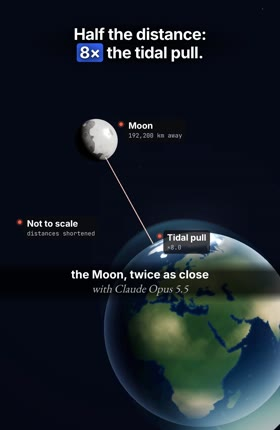
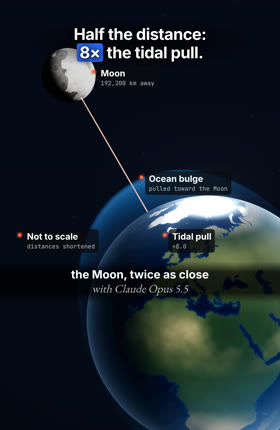
space38 (#34), earth41 (#35), neon40 tutorial: director-reviewed, published + released; earth39 dropped (tsunami failed review 2x); series next=36

Changed region(s): [[0.0571, 0.0907, 1.0, 1.0], [0.5429, 0.8465, 0.5714, 0.8767]]

diff --git a/hf/videos/earth41/scenes.js b/hf/videos/earth41/scenes.js
@@ -111,7 +111,7 @@ const EARTH_VS='varying vec2 vU; varying vec3 vN; varying vec3 vW; void main(){ 
 function llVec(lat,lon,r){ const u=(lon+180)/360, v=(lat+90)/180, ph=u*Math.PI*2, th=(1-v)*Math.PI; return new THREE.Vector3(-r*Math.cos(ph)*Math.sin(th),r*Math.cos(th),r*Math.sin(ph)*Math.sin(th)); }
 const nf39=new Intl.NumberFormat('en-US');
 
-// ================= earth39 scenes (Claude Opus 5.5, drawn in code) =================
+// ================= earth41 scenes (Claude Opus 5.5, drawn in code) =================
 // ---------- S0 /simulate the Moon twice as close: real Earth, a procedural Moon that drifts in from today's distance to half of it
 // (not to scale: distances shortened, sizes true ratio). Tide-generating force ~ 1/d^3 (NOAA), so half the distance = 8x the pull: the
 // ocean tidal bulge (exaggerated ellipsoid shell) swells toward the Moon and on the far side; odometers run 384,400 -> 192,200 km and x1 -> x8.
@@ -119,7 +119,7 @@ function moonTex(){ return canvasTex(1024,512,(c,w,h)=>{ const n=vnoise(5), n2=v
   for(let y=0;y<h;y++) for(let x=0;x<w;x++){ const u=x/w*10, v=y/h*5; let e=fbm(n,u,v,6); const mare=fbm(n2,u*0.5+3,v*0.5,4)>0.56?0.55:1; let g=(95+120*e)*mare; const i=(y*w+x)*4; im.data[i]=g; im.data[i+1]=g*0.98; im.data[i+2]=g*0.95; im.data[i+3]=255; }
   c.putImageData(im,0,0); const r=rnd(12); for(let i=0;i<520;i++){ const x=r()*w,y=r()*h,rr=1.5+Math.pow(r(),3)*22; let g=c.createRadialGradient(x+rr*0.2,y+rr*0.2,0,x,y,rr); g.addColorStop(0,'rgba(20,20,20,.22)'); g.addColorStop(0.75,'rgba(20,20,20,.08)'); g.addColorStop(0.92,'rgba(255,255,255,.10)'); g.addColorStop(1,'rgba(255,255,255,0)'); c.fillStyle=g; c.beginPath(); c.arc(x,y,rr,0,7); c.fill(); } }); }
 (function(){ const ren=mkRenderer2('cv0'), sc=new THREE.Scene(); sc.background=new THREE.Color(0x020306); ren.toneMappingExposure=1.0;
-  const cam=new THREE.PerspectiveCamera(42,1080/1920,0.05,500); const P=mkComposer(ren,sc,cam,{bloom:0.55,radius:0.5,th:0.8});
+  const cam=new THREE.PerspectiveCamera(46,1080/1920,0.05,500); const P=mkComposer(ren,sc,cam,{bloom:0.45,radius:0.5,th:0.85});
   starField(sc,1800,31,300);
   const SUN=new THREE.Vector3(1,0.35,0.6).normalize();
   const E=earthReal(); const U={uDay:{value:E.day},uCl:{value:E.clouds},uNi:{value:E.night},uT:{value:0},uSun:{value:SUN}};
@@ -139,99 +139,68 @@ function moonTex(){ return canvasTex(1024,512,(c,w,h)=>{ const n=vnoise(5), n2=v
         float n=fbm(vL.xz*9.+vec2(uT*0.3,0.))*0.5+fbm(vL.yx*14.-uT*0.2)*0.5;
         vec3 col=mix(vec3(0.05,0.32,0.62),vec3(0.35,0.75,1.0),lift)*(0.25+0.9*k)+vec3(0.8,0.95,1.)*pow(max(dot(reflect(-uSun,N),V),0.),40.)*k*0.8;
         col+=vec3(0.6,0.9,1.)*smoothstep(0.62,0.7,n)*lift*0.25;
-        float a=(0.03+0.95*lift*lift)*uK*(0.6+0.4*fr)*smoothstep(0.0,0.18,dot(N,V)); col+=vec3(0.4,0.8,1.)*lift*lift*0.6; gl_FragColor=vec4(col,a); }`}));
+        float a=clamp((0.02+1.6*pow(lift,1.5))*uK*smoothstep(0.0,0.12,dot(N,V)),0.,0.93); col=vec3(0.03,0.20,0.52)*(0.45+0.8*k)+vec3(0.9,0.97,1.)*pow(max(dot(reflect(-uSun,N),V),0.),30.)*k*0.5+vec3(0.15,0.45,0.9)*fr*0.35; gl_FragColor=vec4(col,a); }`}));
   sc.add(bulge);
   const moon=new THREE.Mesh(new THREE.SphereGeometry(0.273,96,64),new THREE.MeshStandardMaterial({map:moonTex(),roughness:0.95,metalness:0}));
   sc.add(moon); const dl=new THREE.DirectionalLight(0xffffff,2.6); dl.position.copy(SUN).multiplyScalar(10); sc.add(dl); sc.add(new THREE.AmbientLight(0x223040,0.25));
-  const MD=new THREE.Vector3(-0.5,0.8,-0.35).normalize();
+  const MD=new THREE.Vector3(-0.62,0.66,-0.35).normalize();
   // pull line Earth -> Moon
   const pull=new THREE.Mesh(new THREE.CylinderGeometry(0.006,0.006,1,8),glowMat(0xff6a3d,0.9)); sc.add(pull);
   const W0=new THREE.Vector3();
   SCN[0]=function(lt){ U.uT.value=lt; BU.uT.value=lt;
     const a=easeIO(cl((lt-0.35)/3.4)); const d=lerp(5.6,2.8,a); moon.position.copy(MD).multiplyScalar(d); moon.rotation.y=0.6+lt*0.05;
     const pullK=Math.pow(5.6/d,3); // 1 -> 8
-    const b=0.03*pullK; bulge.quaternion.setFromUnitVectors(new THREE.Vector3(0,1,0),MD); bulge.scale.set(1,1+b,1); BU.uK.value=cl(lt/0.5);
+    const b=0.045*pullK; bulge.quaternion.setFromUnitVectors(new THREE.Vector3(0,1,0),MD); bulge.scale.set(1,1+b,1); BU.uK.value=cl(lt/0.5);
     pull.position.copy(MD).multiplyScalar((1.08+d-0.3)/2); pull.scale.y=d-0.3-1.08; pull.quaternion.setFromUnitVectors(new THREE.Vector3(0,1,0),MD); pull.material.opacity=0.25+0.1*pullK*win(lt,0.3,9);
     earth.rotation.y=-2.2+lt*0.06;
-    const u=easeIO(cl(lt/5.6)); cam.position.set(lerp(1.0,0.7,u),lerp(0.5,0.7,u),lerp(6.2,7.0,u)); cam.lookAt(lerp(-0.6,-0.7,u),lerp(1.5,1.35,u),-0.3);
+    const u=easeIO(cl(lt/5.6)); cam.position.set(lerp(0.2,-0.1,u),lerp(1.0,0.95,u),lerp(4.5,4.9,u)); cam.lookAt(lerp(-0.55,-0.6,u),lerp(0.9,0.95,u),-0.3);
     P.c.render();
     let [x,y]=proj(moon.position,cam); setLab('l0_0',x+110,y-40,win(lt,0.3,9),'Moon',nf39.format(Math.round(384400/(5.6/d)/100)*100)+' km away');
-    W0.copy(MD).multiplyScalar(1.0+b+0.02); [x,y]=proj(W0,cam); setLab('l0_1',x+60,y+30,win(lt,0.9,9),'Tidal pull','×'+pullK.toFixed(1));
-    setLab('l0_2',90,1060,win(lt,1.6,9));
+    W0.copy(MD).multiplyScalar(1.0+b+0.02); [x,y]=proj(W0,cam); setLab('l0_3',x+50,y-10,win(lt,0.9,9));
+    setLab('l0_1',650,1110,win(lt,0.9,9),'Tidal pull','×'+pullK.toFixed(1));
+    setLab('l0_2',90,1110,win(lt,1.6,9));
     caption(0,lt); };
 })();
 
-// ---------- S1 /what-if a mega tsunami hit New York (v2): low camera on the waterfront at dusk, our own generic towers (setbacks, soft
-// window lights) on the left, a huge wave rolling in from the bay with a curling lip, foam and spray. Hypothetical: no height claimed.
-// Caption = the real record (Lituya Bay 1958, 525 m run-up, NOAA JetStream).
-(function(){ const ren=mkRenderer2('cv1'), sc=new THREE.Scene(); ren.toneMappingExposure=1.0;
-  sc.background=canvasTex(16,512,(c,w,h)=>{ const g=c.createLinearGradient(0,0,0,h); g.addColorStop(0,'#070b1c'); g.addColorStop(0.35,'#262a4c'); g.addColorStop(0.55,'#7a4a52'); g.addColorStop(0.63,'#e08a5a'); g.addColorStop(0.68,'#3a2c38'); g.addColorStop(1,'#0c1018'); c.fillStyle=g; c.fillRect(0,0,w,h); });
-  const cam=new THREE.PerspectiveCamera(46,1080/1920,0.1,400); const P=mkComposer(ren,sc,cam,{bloom:0.45,radius:0.5,th:0.88});
-  const WU={uT:{value:0},uF:{value:40},uH:{value:0}};
-  const WH=`uniform float uT,uF,uH; float wh(vec2 p){ float dz=p.y-uF; float s=0.07*sin(p.x*1.3+uT*1.6)+0.06*sin(p.x*0.7-p.y*1.1+uT*1.2)+0.05*sin(p.y*2.1+uT*2.0);
-    float hx=uH*(1.+0.12*sin(p.x*0.21+1.3)); float crest=hx*(dz<0.?exp(-dz*dz/2.2):exp(-dz*dz/40.)); float trough=-0.35*uH*exp(-pow((dz+5.5)/2.5,2.));
-    return s+crest+trough; }`;
-  const wg=new THREE.PlaneGeometry(120,90,360,300); wg.rotateX(-Math.PI/2); wg.translate(0,0,30);
-  const WFS=`varying vec3 vW; varying vec3 vNn; varying float vFo; varying float vSl; uniform float uT;
-    void main(){ vec3 N=normalize(vNn+vec3(fbm(vW.xz*1.5+vW.y*0.8+uT)-.5,0.,fbm(vW.zx*1.5-vW.y*0.8-uT)-.5)*0.07); vec3 V=normalize(cameraPosition-vW); float fr=0.03+0.97*pow(1.-max(dot(N,V),0.),5.);
-      vec3 R=reflect(-V,N); float sky=clamp(R.y,0.,1.); vec3 skyC=mix(vec3(0.9,0.52,0.36),vec3(0.16,0.17,0.32),smoothstep(0.,0.45,sky));
-      vec3 deep=vec3(0.012,0.04,0.055); vec3 col=mix(deep,skyC*0.6,fr);
-      col+=vec3(0.015,0.10,0.09)*vSl*max(dot(N,V),0.); // light through the thin wave face
-      vec3 S=normalize(vec3(0.,0.10,1.)); col+=vec3(1.,0.68,0.42)*pow(max(dot(R,S),0.),160.)*1.4;
-      float n=fbm(vec2(vW.x*1.4,vW.y*1.6+vW.z*1.2)+vec2(0.,-uT*1.5)); float foam=vFo*smoothstep(0.35,0.7,n+vFo*0.3); col=mix(col,vec3(0.72,0.72,0.74),clamp(foam,0.,0.92));
-      gl_FragColor=vec4(col,1.); }`;
-  const water=new THREE.Mesh(wg,new THREE.ShaderMaterial({uniforms:WU,toneMapped:false,
-    vertexShader:GLN+WH+`varying vec3 vW; varying vec3 vNn; varying float vFo; varying float vSl; void main(){ vec3 p=position; float h=wh(p.xz); float e=0.08; float dz=p.z-uF;
-      vec3 N=normalize(vec3(-(wh(p.xz+vec2(e,0.))-h)/e,1.,-(wh(p.xz+vec2(0.,e))-h)/e)); vNn=N; vSl=clamp(-N.z*1.5,0.,1.)*step(0.5,uH)*smoothstep(0.,0.6*uH,h);
-      vFo=smoothstep(0.75*uH,0.98*uH,h)*step(1.,uH)+0.3*smoothstep(1.,4.,dz)*smoothstep(12.,5.,dz)*step(1.,uH);
-      p.y=h; vec4 w=modelMatrix*vec4(p,1.); vW=w.xyz; gl_Position=projectionMatrix*viewMatrix*w; }`,fragmentShader:GLN+WFS}));
-  sc.add(water);
-  // curling lip: a sheet that leaves the crest top and curls forward/down toward the camera
-  const NX=220, NA=26; const lg=new THREE.PlaneGeometry(1,1,NX-1,NA-1); const LP=lg.attributes.position;
-  const LU={uT:{value:0},uF:{value:40},uH:{value:0},uC:{value:0}};
-  const lip=new THREE.Mesh(lg,new THREE.ShaderMaterial({uniforms:LU,side:THREE.DoubleSide,toneMapped:false,transparent:true,
-    vertexShader:'varying vec3 vW; varying vec3 vNn; varying float vFo; varying float vSl; varying float vA; attribute float aa; void main(){ vec4 w=modelMatrix*vec4(position,1.); vW=w.xyz; vNn=normalize(mat3(modelMatrix)*normal); vFo=smoothstep(0.55,1.,aa)*0.9+0.15; vSl=1.-aa; vA=aa; gl_Position=projectionMatrix*viewMatrix*w; }',
-    fragmentShader:GLN+WFS.replace('gl_FragColor=vec4(col,1.);','gl_FragColor=vec4(col,1.-smoothstep(0.93,1.,vA)*0.6);').replace('varying float vSl;','varying float vSl; varying float vA;')}));
-  const AA=new Float32Array(NX*NA); lg.setAttribute('aa',new THREE.BufferAttribute(AA,1)); lip.frustumCulled=false; sc.add(lip);
-  function updLip(lt){ const H=WU.uH.value, F=WU.uF.value, curl=LU.uC.value;
-    for(let j=0;j<NA;j++) for(let i=0;i<NX;i++){ const k=j*NX+i; const x=-60+120*i/(NX-1); const a=j/(NA-1); AA[k]=a;
-      const hx=H*(1+0.12*Math.sin(x*0.21+1.3)); const r=0.22*hx*(0.75+0.25*Math.sin(x*0.13+lt*0.8)); const ang=a*(0.3+2.3*curl);
-      const z=F-r*Math.sin(ang)*1.35, y=hx-r+r*Math.cos(ang)-0.05; LP.setXYZ(k,x,y,z); }
-    LP.needsUpdate=true; lg.computeVertexNormals(); }
-  // spray: soft particles thrown off the lip
-  const NS=1600, spr=cloudPoints(NS,softDot(),650,THREE.NormalBlending); sc.add(spr); const SR=rnd(9); const SD=[]; for(let i=0;i<NS;i++) SD.push([SR()*120-60,SR(),SR(),SR()]);
-  function updSpray(lt){ const H=WU.uH.value, F=WU.uF.value, g=spr.geometry; const pa=g.attributes.position, ca=g.attributes.color, sa=g.attributes.sz, al=g.attributes.al;
-    for(let i=0;i<NS;i++){ const [x,ph,v,s]=SD[i]; const life=((lt*0.55+ph)%1); const hx=H*(1+0.12*Math.sin(x*0.21+1.3));
-      pa.setXYZ(i,x+Math.sin(ph*40)*0.6,hx*0.98+life*(0.8+1.6*v)-life*life*1.4,F-0.6-life*(1.5+2.5*s)); ca.setXYZ(i,0.78,0.78,0.8); sa.setX(i,0.6+2.4*s*life+0.4); al.setX(i,0.13*Math.sin(Math.PI*life)*cl((H-1)/3)); }
-    pa.needsUpdate=ca.needsUpdate=sa.needsUpdate=al.needsUpdate=true; }
-  // towers with setbacks, soft window lights
-  const bg=new THREE.BoxGeometry(1,1,1); bg.translate(0,0.5,0);
-  const bm=new THREE.ShaderMaterial({toneMapped:false,
-    vertexShader:'varying vec3 vW; varying vec3 vN; varying float vS; void main(){ vec4 w=modelMatrix*instanceMatrix*vec4(position,1.); vW=w.xyz; vN=normalize(mat3(modelMatrix*instanceMatrix)*normal); vS=instanceMatrix[3].x*13.1+instanceMatrix[3].z*7.7; gl_Position=projectionMatrix*viewMatrix*w; }',
-    fragmentShader:GLN+`varying vec3 vW; varying vec3 vN; varying float vS; void main(){ vec3 N=normalize(vN); float fx=abs(N.x)>0.5?vW.z:vW.x;
-      vec2 g=vec2(fx*2.2,vW.y*1.9); vec2 id=floor(g), f=fract(g); float win=smoothstep(0.1,0.25,f.x)*smoothstep(0.9,0.75,f.x)*smoothstep(0.12,0.3,f.y)*smoothstep(0.85,0.68,f.y);
-      float side=step(0.5,1.-abs(N.y)); float r=h21(id+vec2(vS,vS*1.7)); float on=smoothstep(0.62,0.75,r)*win*side;
-      float band=smoothstep(0.02,0.0,abs(f.y-0.06))*0.25*side; float mull=step(0.5,fract(fx*0.5))*0.0;
-      vec3 base=vec3(0.010,0.012,0.018)+vec3(0.05,0.03,0.03)*max(N.z,0.)*0.5+vec3(0.012,0.014,0.025)*max(N.x,0.); base+=band*vec3(0.06,0.06,0.08);
-      vec3 wc=mix(vec3(1.,0.72,0.42),vec3(0.8,0.86,1.),h21(id+3.1))*(0.45+0.4*h21(id+7.))*1.0; vec3 col=base+wc*on*0.6+win*side*vec3(0.006,0.008,0.012);
-      col+=vec3(0.9,0.5,0.3)*pow(max(N.z,0.),2.)*0.06*smoothstep(0.,14.,vW.y); gl_FragColor=vec4(col,1.); }`});
-  const R=rnd(61); const PARTS=[]; let tallest=null;
-  for(let i=0;i<52;i++){ const x=0.5-Math.pow(R(),0.8)*16, z=3+R()*10; const w=1.4+R()*1.8, d=1.4+R()*1.8; let h=2+R()*5+Math.exp(-Math.pow((x+5)/4,2))*(6+R()*8);
-    let y=-0.3, ww=w, dd=d; const tiers=1+(h>7?2:h>4?1:0); for(let t=0;t<tiers;t++){ const th=t===tiers-1?h*(t?0.3:1):h*(t?0.25:0.6); PARTS.push([x,y,z,ww,th,dd]); y+=th; ww*=0.78; dd*=0.78; }
-    if(!tallest||y>tallest[1]) tallest=[x,y,z]; }
-  const city=new THREE.InstancedMesh(bg,bm,PARTS.length); const M=new THREE.Matrix4(); PARTS.forEach((p,i)=>{ M.compose(new THREE.Vector3(p[0],p[1],p[2]),new THREE.Quaternion(),new THREE.Vector3(p[3],p[4],p[5])); city.setMatrixAt(i,M); }); sc.add(city);
-  const ant=new THREE.Mesh(new THREE.CylinderGeometry(0.03,0.07,2.4,8),new THREE.MeshBasicMaterial({color:0x6a7080})); ant.position.set(tallest[0],tallest[1]+1.2,tallest[2]); sc.add(ant);
-  const red=new THREE.Mesh(new THREE.SphereGeometry(0.1,8,8),glowMat(0xff3020,1)); red.position.set(tallest[0],tallest[1]+2.45,tallest[2]); sc.add(red);
-  const quay=new THREE.Mesh(new THREE.BoxGeometry(44,0.5,13),new THREE.MeshBasicMaterial({color:0x0b0d13})); quay.position.set(-20.5,-0.05,8.5); sc.add(quay);
-  const pW=new THREE.Vector3();
-  SCN[1]=function(lt){ WU.uT.value=lt; LU.uT.value=lt; red.material.opacity=Math.sin(lt*5)>0?1:0.35;
-    const a=easeIO(cl(lt/5.6)); WU.uF.value=lerp(48,19,a); WU.uH.value=lerp(3,13,easeIO(cl(lt/3.4))); LU.uC.value=easeIO(cl((lt-0.6)/3.4)); LU.uF.value=WU.uF.value;
-    updLip(lt); updSpray(lt);
-    const u=easeIO(cl(lt/5.6)); cam.position.set(lerp(7,6,u),lerp(2.2,1.8,u),lerp(-17,-13,u)); cam.lookAt(lerp(0.5,1.5,u),lerp(6.5,7.5,u),25);
-    P.c.render();
-    pW.set(6,WU.uH.value*1.05,WU.uF.value); let [x,y]=proj(pW,cam); setLab('l1_0',x+30,y-30,win(lt,0.5,99));
-    [x,y]=proj(new THREE.Vector3(tallest[0],tallest[1],tallest[2]),cam); setLab('l1_1',Math.max(70,x-40),y+170,win(lt,1.2,99));
-    setLab('l1_2',90,1050,win(lt,2.0,99));
+// ---------- S1 /x-ray Earth down to its core: studio cutaway. Real Earth texture with one octant removed; the three cut faces show the
+// layers by radius (NASA "Facts About Earth"): crust ~30 km on land (drawn thicker to be visible), mantle ~2,900 km, liquid outer core
+// ~2,300 km (iron + nickel), solid inner core 1,221 km radius, up to ~5,400 °C. A scan ring sweeps from the surface to the centre.
+(function(){ const ren=mkRenderer2('cv1'), sc=new THREE.Scene(); ren.toneMappingExposure=1.0; bgGrad(sc,'#2a2f38','#07080b');
+  const cam=new THREE.PerspectiveCamera(34,1080/1920,0.05,200); const P=mkComposer(ren,sc,cam,{bloom:0.3,radius:0.5,th:0.92});
+  starField(sc,600,17,120);
+  const SUN=new THREE.Vector3(0.9,0.6,0.5).normalize();
+  const E=earthReal(); const U={uDay:{value:E.day},uCl:{value:E.clouds},uSun:{value:SUN},uO:{value:0}};
+  const earth=new THREE.Mesh(new THREE.SphereGeometry(1,200,150),new THREE.ShaderMaterial({uniforms:U,toneMapped:false,
+    vertexShader:'varying vec2 vU; varying vec3 vN; varying vec3 vW; varying vec3 vP; void main(){ vU=uv; vP=position; vN=normalize(mat3(modelMatrix)*normal); vec4 w=modelMatrix*vec4(position,1.); vW=w.xyz; gl_Position=projectionMatrix*viewMatrix*w; }',
+    fragmentShader:`uniform sampler2D uDay,uCl; uniform vec3 uSun; uniform float uO; varying vec2 vU; varying vec3 vN; varying vec3 vW; varying vec3 vP;
+      void main(){ if(vP.x>0.&&vP.y>0.&&vP.z>0.&&uO>0.5) discard; vec3 d=texture2D(uDay,vU).rgb; float c=texture2D(uCl,vU).r; vec3 N=normalize(vN);
+        float k=smoothstep(-0.25,0.6,dot(N,uSun)); vec3 col=mix(d,vec3(1.),c*0.6)*(0.10+1.0*k); col=1.-exp(-col*1.2);
+        vec3 V=normalize(cameraPosition-vW); col+=vec3(0.35,0.6,1.)*pow(1.-max(dot(N,V),0.),3.)*0.6; gl_FragColor=vec4(col,1.); }`}));
+  sc.add(earth);
+  const FU={uT:{value:0},uS:{value:1.2}};
+  const faceMat=new THREE.ShaderMaterial({uniforms:FU,side:THREE.DoubleSide,toneMapped:false,
+    vertexShader:'varying vec3 vP; void main(){ vP=(modelMatrix*vec4(position,1.)).xyz; gl_Position=projectionMatrix*viewMatrix*vec4(vP,1.); }',
+    fragmentShader:GLN+`uniform float uT,uS; varying vec3 vP;
+      void main(){ float r=length(vP); if(r>1.0) discard; vec2 q=vec2(atan(vP.y+vP.z*0.7,vP.x+vP.z*0.3)*3.,r*14.);
+        float n=fbm(q*1.5+vec2(0.,-uT*0.15)), n2=fbm(vec2(r*40.,atan(vP.y,vP.x+vP.z)*12.)+uT*0.05);
+        vec3 col;
+        if(r>0.975){ col=mix(vec3(0.30,0.26,0.22),vec3(0.46,0.40,0.33),n2); col=mix(col,vec3(0.16,0.32,0.18),smoothstep(0.994,1.0,r)*0.6); }
+        else if(r>0.55){ float t=(r-0.55)/0.425; col=mix(vec3(0.92,0.36,0.08),vec3(0.45,0.11,0.05),pow(t,0.8)); col*=0.72+0.5*n; // convecting mantle
+          col+=vec3(0.25,0.06,0.0)*smoothstep(0.6,0.75,fbm(q*0.8+uT*0.1)); }
+        else if(r>0.192){ float t=(r-0.192)/0.358; col=mix(vec3(1.0,0.74,0.22),vec3(0.98,0.55,0.12),t); col*=0.8+0.3*fbm(vec2(atan(vP.y,vP.x)*6.+uT*0.6,r*30.)); }
+        else { float t=r/0.192; col=mix(vec3(1.0,0.96,0.82),vec3(1.0,0.88,0.55),t)*(0.95+0.05*sin(uT*3.)); }
+        float b=min(min(abs(r-0.975),abs(r-0.55)),abs(r-0.192)); col*=0.55+0.45*smoothstep(0.0,0.007,b); // thin dark boundaries
+        float scan=exp(-pow((r-uS)/0.012,2.)); col+=vec3(0.55,0.85,1.)*scan*1.4;
+        gl_FragColor=vec4(col,1.); }`});
+  [[0,0,0],[0,-Math.PI/2,0],[Math.PI/2,0,0]].forEach((rot,i)=>{ const g=new THREE.PlaneGeometry(1,1,1,1); g.translate(0.5,0.5,0); const m=new THREE.Mesh(g,faceMat); m.rotation.set(...rot); m.visible=false; sc.add(m); FU['m'+i]=m; });
+  const pts=[[0.986,'l1_0'],[0.76,'l1_1'],[0.37,'l1_2'],[0.10,'l1_3']]; const A=Math.PI/4;
+  SCN[1]=function(lt){ FU.uT.value=lt; const open=lt>0.05; U.uO.value=open?1:0; FU.m0.visible=FU.m1.visible=FU.m2.visible=open;
+    const sp=easeIO(cl((lt-0.2)/3.4)); FU.uS.value=lerp(1.02,0.0,sp);
+    const u=easeIO(cl(lt/5.6)); const az=lerp(0.55,0.95,u), el=lerp(0.5,0.42,u), d=lerp(7.6,6.3,u);
+    cam.position.set(Math.sin(az)*Math.cos(el)*d,Math.sin(el)*d,Math.cos(az)*Math.cos(el)*d); cam.lookAt(0.08,lerp(0.05,0.15,u),0.08);
+    earth.rotation.y=0; P.c.render();
+    pts.forEach(([r,id],i)=>{ const v=new THREE.Vector3(Math.cos(A)*r*0.0+r*Math.cos(1.1)*0.0, r*Math.sin(A), r*Math.cos(A)); // on the x=0 face
+      const [x,y]=proj(v,cam); const shown=cl((1.02-FU.uS.value-(1-r)+0.04)/0.08); setLab(id,x+(i===3?90:18),y+(i===0?-75:i===1?10:i===2?70:150),shown*cl((lt-0.3)/0.3)); });
     caption(1,lt); };
 })();
 
@@ -275,6 +244,6 @@ function moonTex(){ return canvasTex(1024,512,(c,w,h)=>{ const n=vnoise(5), n2=v
     P.c.render();
     let [x,y]=proj(C,cam); setLab('l2_0',x+50,y-40,win(lt,0.3,9));
     W.copy(C).multiplyScalar(Math.cos(0.1727)).add(T1.clone().multiplyScalar(Math.sin(0.1727))).multiplyScalar(1.01); [x,y]=proj(W,cam); setLab('l2_1',x-20,y+70,win(lt,1.5,9));
-    W.copy(llVec(40,-4,1.0)); [x,y]=proj(W,cam); setLab('l2_2',x+14,y,win(lt,2.0,99));
+    W.copy(llVec(40,-4,1.0)); [x,y]=proj(W,cam); setLab('l2_2',Math.max(110,x+14),y,win(lt,2.0,99));
     caption(2,lt); };
 })();

diff --git a/hf/videos/earth41/build.py b/hf/videos/earth41/build.py
@@ -1,16 +1,17 @@
-"""earth39 - App demo "Type it, get it #35" (2026-11-15 morning run, picklist trio "What if... Earth 5"; Jan tapped nothing; /zack-d-films
-replaced by /simulate, Jan: give it a break). /simulate the Moon twice as close, /what-if a mega tsunami hit New York (generic dusk skyline
-of our own design), /scale the biggest typhoon versus Europe. All drawn in code (three.js + GLSL), made with Claude Opus 5.5.
+"""earth41 - App demo "Type it, get it #35" (2026-11-15 morning run, picklist trio "What if... Earth 5"; Jan tapped nothing). Replaces
+earth39 (its tsunami scene failed director review twice). /simulate the Moon twice as close, /x-ray Earth down to its core, /scale the
+biggest typhoon versus Europe. All drawn in code (three.js + GLSL), made with Claude Opus 5.5.
 Facts: tide-generating forces vary inversely as the cube of the distance (NOAA NOS tides tutorial) -> half the distance = 8x the pull;
-Lituya Bay 1958 run-up 1,720 ft / 525 m, highest tsunami ever recorded (NOAA JetStream); Typhoon Tip (Oct 1979) gale-force winds out to
-1,100 km radius (NOAA AOML TC FAQ E5) = ~2,200 km across. Prompt first, then the result. Music t1."""
+Earth's layers (NASA science.nasa.gov/earth/facts): crust ~30 km on land, mantle ~2,900 km, liquid iron-nickel outer core ~2,300 km,
+solid inner core 1,221 km radius, up to 5,400 C; Typhoon Tip (Oct 1979) gale-force winds out to 1,100 km radius (NOAA AOML TC FAQ E5).
+Prompt first, then the result. Music t1."""
 import json, shutil, subprocess, sys
 from pathlib import Path
 HERE = Path(__file__).parent
 sys.path.insert(0, str(HERE.parent.parent))
 from house import Film, series, FOLLOW_LINE
 
-W = HERE.parent.parent / "work" / "earth39"
+W = HERE.parent.parent / "work" / "earth41"
 A = W / "assets"
 for f in (HERE.parent / "impact22" / "media").iterdir():   # shared libs + Earth textures live in impact22/media
     if f.suffix == ".js": shutil.copy(f, A / f.name)
@@ -22,7 +23,7 @@ for k in range(3):
         Image.new("RGB", (280, 430), (34, 34, 34)).save(A / f"th{k}.jpg")
 
 # --- gaps after each "this." so the 3D result plays
-GAPS = {11: 3.9, 25: 3.9, 37: 4.1}
+GAPS = {11: 3.9, 23: 3.9, 35: 4.4}
 TEMPO = 1.18  # voice ~12 % faster (reviewer: aim for ~20 s)
 if not (A / "voice_raw.mp3").exists():
     shutil.copy(A / "voice.mp3", A / "voice_raw.mp3"); shutil.copy(A / "voice.json", A / "voice_raw.json")
@@ -59,20 +60,20 @@ for j, w in enumerate(vw):
     if j in GAPS: shift += GAPS[j]
 (A / "voice.json").write_text(json.dumps(vw))
 
-F = Film(W, (HERE / "script.txt").read_text(), A / "voice.json", tail=0.8)
+F = Film(W, (HERE / "script.txt").read_text(), A / "voice.json", tail=0.3)
 F.scenes([0])
 S, E = F.S, F.E
 
 DEMOS = [  # Type idx, (cmd i0,i1), (prompt i0,i1), 'and' idx, cmd, prompt, title, caption, hi, chip description
     (0, (2, 2), (3, 7), 8, "simulate", "the Moon twice as close", "the Moon, twice as close", "Half the distance: / 8× the tidal pull.", 3, "Simulate any what-if"),
-    (12, (14, 15), (16, 21), 22, "what-if", "a mega tsunami hit New York", "a mega tsunami hits the city", "Real record: 525&nbsp;m tsunami / run-up, Alaska 1958.", 2, "Play out any what-if"),
-    (26, (28, 28), (29, 33), 34, "scale", "the biggest typhoon versus Europe", "the biggest typhoon vs. Europe", "Typhoon Tip, 1979: / ≈2,200&nbsp;km across.", 3, "Compare anything to scale"),
+    (12, (14, 14), (15, 19), 20, "x-ray", "Earth down to its core", "Earth, x-rayed to its core", "Inner core: up to / 5,400&nbsp;°C.", 4, "See inside anything"),
+    (24, (26, 26), (27, 31), 32, "scale", "the biggest typhoon versus Europe", "the biggest typhoon vs. Europe", "Typhoon Tip, 1979: / ≈2,200&nbsp;km across.", 3, "Compare anything to scale"),
 ]
 CMD = DEMOS[0][4]
 TY = []
 for k, (a, (ci0, ci1), (pi0, pi1), andi, cmd, prompt, title, cap, hi, desc) in enumerate(DEMOS):
     T = 0.0 if k == 0 else round(S[a] - 0.15, 3)
-    nxt = round(S[DEMOS[k + 1][0]] - 0.15, 3) if k < 2 else round(S[38] - 0.15, 3)
+    nxt = round(S[DEMOS[k + 1][0]] - 0.15, 3) if k < 2 else round(S[36] - 0.15, 3)
     t_slash = 0.0 if k == 0 else T + 0.05          # no empty "Reply…" pause: the command is typed right away
     c0 = 0.0 if k == 0 else T + 0.12
     c1 = max(c0 + 0.35, S[pi0] - 0.1)                # command typing flows straight into the prompt (no stall)
@@ -108,8 +109,8 @@ keys_html += [f'<div class="k f" style="left:30px;top:{KY0 + 232}px;width:120px"
 KEYPOS[" "] = (460, y3)
 
 LABELS = [
-    [("Moon", "384,400 km away"), ("Tidal pull", "×1.0"), ("Not to scale", "distances shortened")],
-    [("The wave", "rising out of the bay"), ("Downtown", "our own generic skyline"), ("What if", "no real forecast")],
+    [("Moon", "384,400 km away"), ("Tidal pull", "×1.0"), ("Not to scale", "distances shortened"), ("Ocean bulge", "pulled toward the Moon")],
+    [("Crust", "≈30 km on land"), ("Mantle", "≈2,900 km of hot rock"), ("Outer core", "liquid iron + nickel"), ("Inner core", "solid, 1,221 km radius")],
     [("Typhoon Tip, 1979", "largest storm on record"), ("Gale-force winds", "1,100 km from the eye"), ("Europe", "same scale")],
 ]
 ui = ['<script src="assets/three.min.js"></script><script src="assets/three-extras.js"></script><script src="assets/studio_exr.js"></script><script src="assets/earth_tex.js"></script><div class="ui" id="ui">',
@@ -131,7 +132,7 @@ for k, (a, _c, _p, _a, cmd, prompt, title, cap, hi, desc) in enumerate(DEMOS):
                f'<div class="cap">{capw}</div>{labs}'
                f'<div class="ttl"><b>{title}</b><i>with Claude Opus 5.5</i></div></div>')
 thumbs = "".join(f'<div class="th" id="th{k}" style="left:{x}px"><img src="assets/th{k}.jpg" alt=""></div>' for k, x in enumerate([90, 400, 710]))
-end = ('<div id="end">' + SPARK + '<div class="c" id="e1">Comment</div><div class="kw" id="e2">“WAVE”</div>'
+end = ('<div id="end">' + SPARK + '<div class="c" id="e1">Comment</div><div class="kw" id="e2">“TIDE”</div>'
        '<div class="g" id="e3">and I\'ll send you the prompts</div>' + thumbs + '<div class="series" id="eser" style="left:0;right:0;margin:0 auto;width:fit-content;top:1400px">Type it, get it <b>#35</b></div>' + FOLLOW_LINE.replace('class="follow"', 'class="follow" id="efol" style="top:1490px;color:#fff"') + '</div>')
 F.body.append('<div class="layer" id="serl">' + series("Type it, get it", 35, x=70, y=116, dark=True) + '</div>')
 F.clip(0, "".join(ui) + stages + end)
@@ -196,7 +197,6 @@ html,body,#root{background:#121212!important}
 
 CSS += r"""
 #serl > *{background:rgba(17,17,17,.85)!important}
-#st1 .cap{background:rgba(4,6,14,.6);border-radius:28px;left:70px;right:70px}
 """
 CSS += r"""
 .cap{padding:26px 40px;margin:0 auto;background:radial-gradient(closest-side,rgba(0,0,0,.55),rgba(0,0,0,.35) 60%,rgba(0,0,0,0))}
@@ -280,7 +280,7 @@ F2('#st2',{opacity:1},{opacity:0,duration:.18,ease:'none'},END-0.12); tl.set('#u
 F2('#end',{opacity:0},{opacity:1,duration:.25,ease:'none'},END);
 F2('#end svg',{scale:0,rotation:-90},{scale:1,rotation:0,duration:.45,ease:'back.out(2)'},END+0.05);
 F2('#e1',{opacity:0,y:40},{opacity:1,y:0,duration:.35,ease:A},END+0.02);
-F2('#e2',{opacity:0,scale:1.5},{opacity:1,scale:1,duration:.4,ease:'back.out(1.8)'},Math.min(S[39]-0.1,END+0.1));
+F2('#e2',{opacity:0,scale:1.5},{opacity:1,scale:1,duration:.4,ease:'back.out(1.8)'},Math.min(S[37]-0.1,END+0.1));
 F2('#e3',{opacity:0,y:30},{opacity:1,y:0,duration:.35,ease:A},END+0.22);
 [0,1,2].forEach(k=>F2('#th'+k,{opacity:0,y:200,rotation:(k-1)*8},{opacity:1,y:0,rotation:(k-1)*3,duration:.55,ease:'back.out(1.4)'},END+0.15+k*0.08));
 F2('#handle',{opacity:0},{opacity:1,duration:.3},END+0.5);

diff --git a/hf/videos/earth41/prompts.md b/hf/videos/earth41/prompts.md
@@ -1,4 +1,4 @@
-# earth39 prompts — DM for comment WAVE
+# earth41 prompts — DM for comment TIDE
 Made with Claude Opus 5.5. Paste one into Claude Code (or save it as a command in .claude/commands/<name>.md). Each asks for a single
 HTML file (three.js + GLSL shaders, everything drawn in code, no external images except optional public-domain NASA Earth textures) that
 you can preview in the browser and render to a 9:16 mp4. It usually takes a few rounds of feedback (camera, brightness, label positions)
@@ -12,12 +12,14 @@ Make a 4-second 9:16 (1080x1920, 30 fps) three.js "what if" animation: the Moon 
   1/distance³ (NOAA), so half the distance = 8× the pull. Odometers: "Moon – 384,400 → 192,200 km away", "Tidal pull ×1.0 → ×8.0".
 - Slow eased camera drift. Headline "Half the distance: 8× the tidal pull." Label "Not to scale – distances shortened".
 
-## /what-if a mega tsunami hit New York
-Make a 4-second 9:16 three.js animation at dusk: a dense harbour skyline (your own generic towers with lit windows, one tall spire, no real
-landmarks), a calm bay in front. A huge wave crest rises out of the bay, marches toward the city and the water stays high behind it,
-swallowing the lower floors. Physically based water: Fresnel sky reflection, a low orange sun glint, foam only on the crest.
-- Slow push-in from above the bay. Headline "Real record: 525 m tsunami run-up, Alaska 1958." (Lituya Bay run-up, NOAA). No made-up heights.
-- Labels: "The wave – rising out of the bay", "Downtown", "What if – no real forecast".
+## /x-ray Earth down to its core
+Make a 4-second 9:16 three.js "x-ray" cutaway of Earth in a dark studio. Real Earth texture with one octant cut out; colour the three
+cut faces by radius, to scale (NASA): crust (~30 km on land, draw it a little thicker so it shows), mantle (~2,900 km of hot rock, deep
+red to orange with slow convection noise), liquid iron-nickel outer core (~2,300 km, yellow-orange, flowing), solid inner core (1,221 km
+radius, pale glowing yellow-white). Thin dark lines between the layers.
+- A cyan scan ring sweeps from the surface to the centre; each label pops in when the ring reaches its layer.
+- Slow eased orbit + push-in. Headline "Inner core: up to 5,400 °C." (NASA). Labels: "Crust – ≈30 km on land", "Mantle – ≈2,900 km of
+  hot rock", "Outer core – liquid iron + nickel", "Inner core – solid, 1,221 km radius".
 
 ## /scale the biggest typhoon versus Europe
 Make a 4-second 9:16 three.js animation of a real-looking Earth seen over Europe. Put a typhoon over central Europe at true scale:
